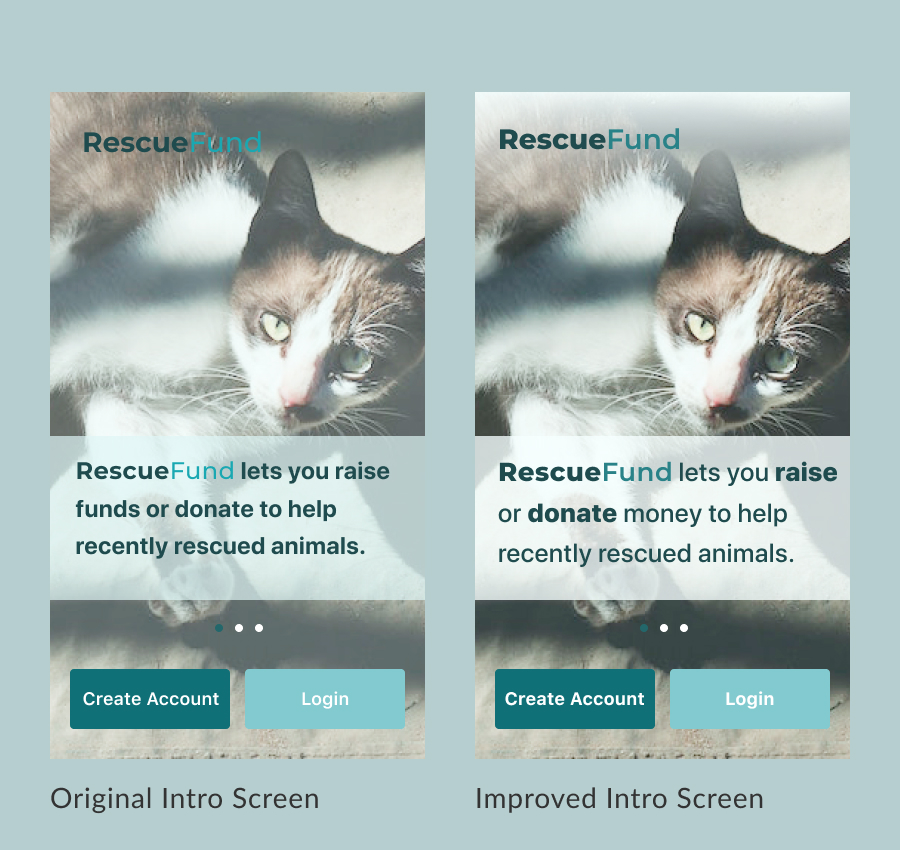
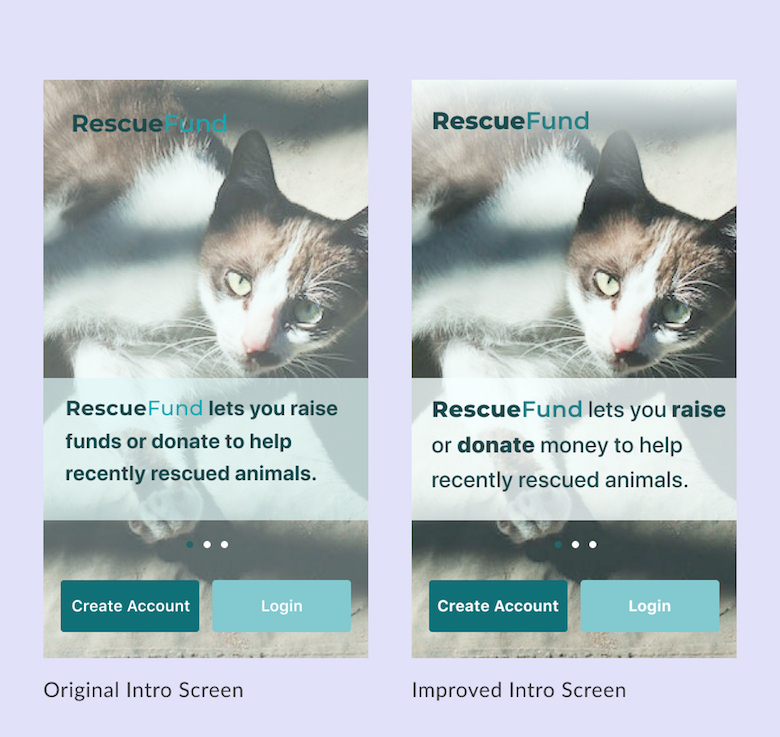
updated images

diff --git a/styles/main.css b/styles/main.css
@@ -11,7 +11,7 @@ html {
 
 body {
   color: #333333;
-  font-family: "ff-real-text-pro", "Lato", "Josefin Sans", sans-serif;
+  font-family: "ff-real-text-pro", "Lato", "josefin-sans", sans-serif;
   margin: 0;
   overflow-y: hidden;
   overflow-x: hidden;
@@ -198,7 +198,7 @@ h2 {
 h3 {
   color: #333333;
   margin: 1rem 0;
-  font-family: "ff-real-text-pro", "Josefin Sans", sans-serif;
+  font-family: "ff-real-text-pro", "Josefin-Sans", sans-serif;
   font-size: 2.8rem;
   font-weight: 600;
   letter-spacing: .1em;
@@ -216,7 +216,7 @@ h4 {
 
 h5 {
   color: #0C1C70;
-  font-family: "ff-real-text-pro", "Josefin Sans", sans-serif;
+  font-family: "ff-real-text-pro", "Josefin-Sans", sans-serif;
   font-size: 2.4rem;
   font-weight: 700;
   letter-spacing: 0.02em;
@@ -226,13 +226,13 @@ h5 {
 
 .slogan {
   color: #555555;
-  font-family: "ff-real-text-pro", "Josefin Sans", sans-serif;
+  font-family: "ff-real-text-pro", "Josefin-Sans", sans-serif;
   font-size: 1.6rem;
   letter-spacing: 0.02em;
   line-height: 3rem;
   padding-top: 3rem;
   max-width: 480px;
-  margin: auto;
+  /*margin: auto;*/
 }
 
 .intro {
@@ -330,6 +330,11 @@ footer {
     margin-bottom: 1.5rem;
     display: block;
   }
+
+  .slogan {
+    margin: auto;
+  }
+
 }
 
 @media screen and (min-width:1024px) {
@@ -822,7 +827,7 @@ footer p {
 .user-survey h4 {
   color: #DD643E;
   line-height: 1.5;
-  font-family: Josefin Sans, sans-serif;
+  font-family: "josefin-sans", sans-serif;
   font-size: 2.4rem;
   font-weight: 300;
   font-style: italic;
@@ -859,7 +864,7 @@ footer p {
 }
 
 .survey-findings {
-  background-color: #cbcbee;
+  background-color: #ebebf7;
   margin: 0 2rem 4rem 2rem;
   padding-top: 2rem;
   padding-bottom: 2rem;

diff --git a/index.html b/index.html
@@ -68,7 +68,7 @@
         <img class="chakra-logo" src="images/chakra-logo-small.svg" alt="Chakra Logo" />
         <h4>SAAS Application</h4>
         <p> chakra is a cloud storage platform that allows users to share, upload and collaborate.</p>
-        <a href="https://drive.google.com/file/d/1Et1GWh2_4KM_79ZM-xVtWL5cn14bgGG3/view?usp=sharing" target="_blank" class="button">Coming Soon!</a> <br>
+        <a href="" target="_blank" class="button">Coming Soon!</a> <br>
       </div>
     </section>
     <!-- Get in touch -->

diff --git a/rescuefund.html b/rescuefund.html
@@ -274,7 +274,7 @@
         <p> Referencing my wireframes and branding concepts, I used Figma to create hi-fi mockups for an iPhone.</p>
       </div>
       <div class="mockup-img1">
-        <img src="images/introscreens.jpg"  alt="RescueFund HiFi Mockup App Screen">
+        <img src="images/introscreens-hifi.jpg"  alt="RescueFund HiFi Mockup App Screen">
       </div>
       <div class="mockup-img2">
         <img src="images/appscreens1.jpg" alt="RescueFund HiFi Mockup App Screen">
